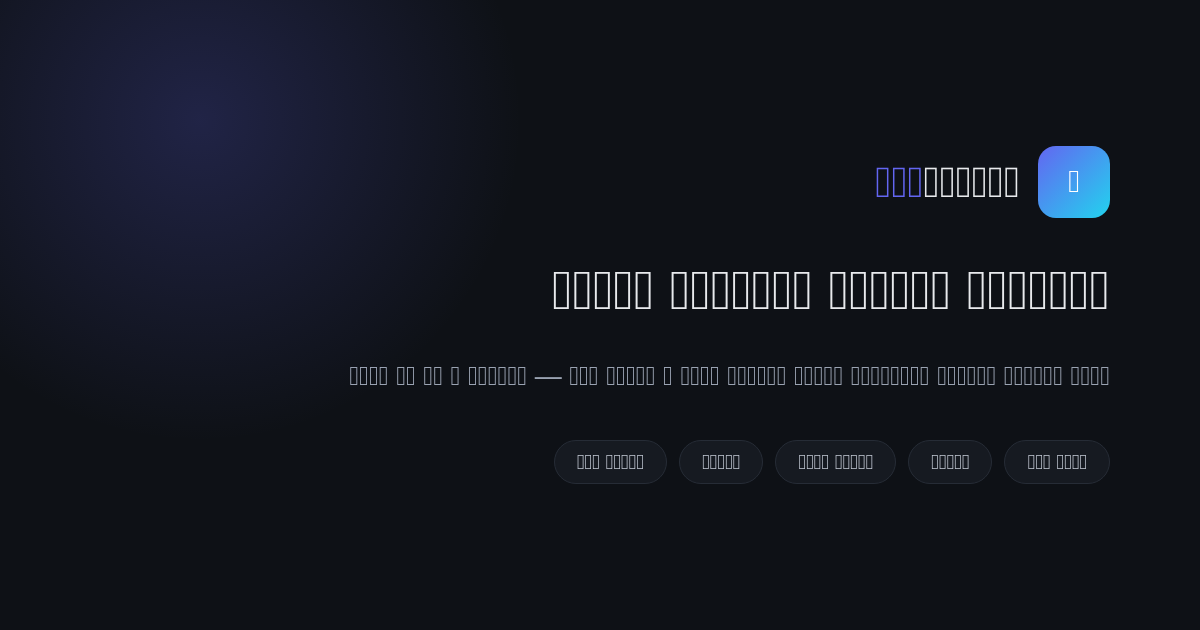
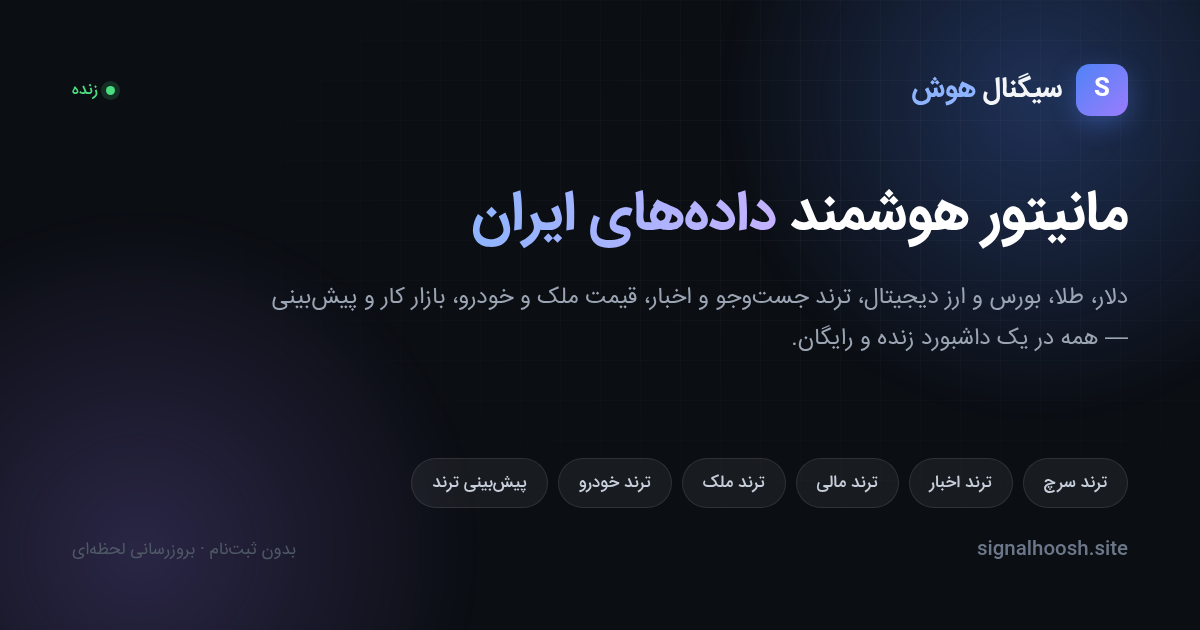
رفع تصویر پیشنمایش (OG Image) — حروف فارسی مربع خالی نشان میداد
علت واقعی: اسکریپت سازندهی قدیمی (که در ریپو نبود) قبل از بارگذاری
کامل فونت IRANSans عکس گرفته بود، پس هر حرف فارسی بهجای گلیف واقعی
یک □ خالی (tofu) نشان میداد — دقیقاً همان چیزی که در پیشنمایش تلگرام
و کارت گیتهاب دیده میشد.

gen-og.js (تازه، اینبار در ریپو نگه داشته میشود تا دوباره گم نشود)
- فونتهای IRANSans مستقیم بهصورت base64 داخل HTML جاسازی میشوند
  (بدون وابستگی به شبکه)
- صریحاً منتظر document.fonts.ready + دو requestAnimationFrame قبل از
  اسکرینشات میماند
- طراحی همراستا با دیزاین واقعی سایت: همان گرادیان لوگو، همان پالت
  رنگ تیره از tokens.css، تبهای واقعی بهعنوان pill

بعد از ساخت تصویر تازه، Cloudflare نسخهی خراب قبلی را با کش ۴ساعته
سرو میکرد (به پنل Cloudflare دسترسی ندارم که دستی پاک کنم). راهحل
دائمی: og:image حالا مثل CSS/JS سایت نسخهدار است (?v=<mtime فایل>)
— با هر بار عوضشدن تصویر، آدرس هم عوض میشود و کش قدیمی هرگز اصابت
نمیکند.

diff --git a/gen-og.js b/gen-og.js
@@ -1,0 +1,136 @@
+/**
+ * gen-og.js — ساخت تصویر پیشنمایش (OG Image) سایت
+ *
+ * تصویر قبلی همهی حروف فارسی را بهشکل مربع خالی (□) نشان میداد چون
+ * اسکریپت سازندهاش صفحه را قبل از بارگذاری کامل فونت IRANSans عکس
+ * گرفته بود. اینجا فونتها مستقیماً بهصورت base64 داخل HTML جاسازی
+ * میشوند (بدون وابستگی به شبکه) و صریحاً منتظر `document.fonts.ready`
+ * میمانیم قبل از اسکرینشات.
+ */
+const fs = require('fs');
+const path = require('path');
+const puppeteer = require('puppeteer');
+
+const FONT_DIR = path.join(__dirname, 'public', 'assets', 'fonts');
+const b64 = f => fs.readFileSync(path.join(FONT_DIR, f)).toString('base64');
+
+const FONTS = {
+  ultralight: b64('IRANSansWeb_UltraLight.woff2'),
+  light:      b64('IRANSansWeb_Light.woff2'),
+  regular:    b64('IRANSansWeb.woff2'),
+  medium:     b64('IRANSansWeb_Medium.woff2'),
+  bold:       b64('IRANSansWeb_Bold.woff2'),
+};
+
+const TABS = ['ترند سرچ', 'ترند اخبار', 'ترند مالی', 'ترند ملک', 'ترند خودرو', 'پیشبینی ترند'];
+
+const html = `<!DOCTYPE html>
+<html lang="fa" dir="rtl">
+<head>
+<meta charset="UTF-8">
+<style>
+@font-face { font-family:'IRANSans'; src:url(data:font/woff2;base64,${FONTS.regular}) format('woff2'); font-weight:400; }
+@font-face { font-family:'IRANSans'; src:url(data:font/woff2;base64,${FONTS.medium}) format('woff2'); font-weight:500; }
+@font-face { font-family:'IRANSans'; src:url(data:font/woff2;base64,${FONTS.bold}) format('woff2'); font-weight:700; }
+@font-face { font-family:'IRANSans'; src:url(data:font/woff2;base64,${FONTS.light}) format('woff2'); font-weight:300; }
+
+* { margin:0; padding:0; box-sizing:border-box; }
+html,body { width:1200px; height:630px; overflow:hidden; }
+body {
+  font-family:'IRANSans', sans-serif;
+  background: #0b0e13;
+  position: relative;
+  color: #e8ecf2;
+}
+.glow-1 { position:absolute; top:-220px; right:-160px; width:640px; height:640px; border-radius:50%;
+  background: radial-gradient(circle, rgba(79,131,247,0.30), transparent 70%); filter: blur(10px); }
+.glow-2 { position:absolute; bottom:-260px; left:-200px; width:680px; height:680px; border-radius:50%;
+  background: radial-gradient(circle, rgba(155,124,252,0.22), transparent 70%); filter: blur(10px); }
+.grid-fade {
+  position:absolute; inset:0;
+  background-image: linear-gradient(rgba(255,255,255,0.035) 1px, transparent 1px),
+                     linear-gradient(90deg, rgba(255,255,255,0.035) 1px, transparent 1px);
+  background-size: 40px 40px;
+  -webkit-mask-image: radial-gradient(ellipse at 70% 30%, black 0%, transparent 65%);
+          mask-image: radial-gradient(ellipse at 70% 30%, black 0%, transparent 65%);
+}
+
+.wrap { position:relative; z-index:2; width:100%; height:100%; padding: 64px 72px; display:flex; flex-direction:column; }
+
+.brand { display:flex; align-items:center; gap:14px; }
+.mark {
+  width:52px; height:52px; border-radius:14px; flex-shrink:0;
+  background: linear-gradient(135deg, #4f83f7, #9b7cfc);
+  display:flex; align-items:center; justify-content:center;
+  font-weight:700; font-size:24px; color:#fff;
+  box-shadow: 0 8px 24px rgba(79,131,247,0.35);
+}
+.brand-name { font-size:28px; font-weight:700; color:#f3f5f9; }
+.brand-name b { color:#8fb4ff; font-weight:700; }
+.live { margin-right:auto; display:flex; align-items:center; gap:8px; font-size:16px; color:#4ade80; font-weight:500; }
+.live i { width:9px; height:9px; border-radius:50%; background:#4ade80; box-shadow:0 0 0 5px rgba(74,222,128,0.16); }
+
+.title { margin-top:64px; font-size:56px; font-weight:700; line-height:1.35; color:#fff; max-width:1000px; }
+.title .hl { background: linear-gradient(90deg, #8fb4ff, #c3b2ff); -webkit-background-clip:text; background-clip:text; color:transparent; }
+
+.subtitle { margin-top:22px; font-size:23px; line-height:1.8; color:#9aa4b2; max-width:880px; font-weight:400; }
+
+.pills { margin-top:auto; display:flex; flex-wrap:wrap; gap:10px; }
+.pill {
+  padding: 10px 20px; border-radius:999px; font-size:17px; font-weight:500;
+  background: rgba(255,255,255,0.055); border:1px solid rgba(255,255,255,0.10); color:#c7cedb;
+}
+
+.footer { margin-top:26px; display:flex; align-items:center; justify-content:space-between; }
+.url { font-size:19px; color:#6c7889; font-weight:500; direction:ltr; }
+.tagline { font-size:17px; color:#4f5966; font-weight:400; }
+</style>
+</head>
+<body>
+  <div class="glow-1"></div>
+  <div class="glow-2"></div>
+  <div class="grid-fade"></div>
+  <div class="wrap">
+    <div class="brand">
+      <div class="mark">S</div>
+      <div class="brand-name">سیگنال<b> هوش</b></div>
+      <div class="live"><i></i>زنده</div>
+    </div>
+
+    <div class="title">مانیتور هوشمند <span class="hl">دادههای ایران</span></div>
+    <div class="subtitle">دلار، طلا، بورس و ارز دیجیتال، ترند جستوجو و اخبار، قیمت ملک و خودرو، بازار کار و پیشبینی — همه در یک داشبورد زنده و رایگان.</div>
+
+    <div class="pills">${TABS.map(t => `<span class="pill">${t}</span>`).join('')}</div>
+
+    <div class="footer">
+      <div class="url">signalhoosh.site</div>
+      <div class="tagline">بدون ثبتنام · بروزرسانی لحظهای</div>
+    </div>
+  </div>
+</body>
+</html>`;
+
+(async () => {
+  const browser = await puppeteer.launch({
+    headless: 'new',
+    args: ['--no-sandbox', '--disable-dev-shm-usage', '--disable-gpu', '--force-color-profile=srgb'],
+  });
+  try {
+    const page = await browser.newPage();
+    // deviceScaleFactor:1 عمداً — meta og:image:width/height سایت دقیقاً
+    // 1200×630 اعلام شده و باید با ابعاد واقعی فایل یکی باشد
+    await page.setViewport({ width: 1200, height: 630, deviceScaleFactor: 1 });
+    await page.setContent(html, { waitUntil: 'networkidle0' });
+    await page.waitForSelector('.title');
+    // نکتهی اصلی رفع باگ: صبر صریح تا فونت واقعاً بارگذاری و رندر شده باشد
+    await page.evaluate(() => document.fonts.ready);
+    // دو فریم انیمیشن یعنی حداقل یک ترسیم کامل قبل از عکس گرفتن انجام شده
+    await page.evaluate(() => new Promise(r => requestAnimationFrame(() => requestAnimationFrame(r))));
+    await new Promise(r => setTimeout(r, 400));
+    const out = process.argv[2] || path.join(__dirname, 'public', 'og-default.png');
+    await page.screenshot({ path: out });
+    console.log('✓ ساخته شد:', out, '—', fs.statSync(out).size, 'بایت');
+  } finally {
+    await browser.close();
+  }
+})().catch(e => { console.error('ERR', e.message); process.exit(1); });

diff --git a/web-test.js b/web-test.js
@@ -309,6 +309,7 @@ function assetVersion(rel) {
   } catch (e) { return String(Date.now()); }
 }
 const ASSETS = {
+  og_default: '/og-default.png?v=' + assetVersion('og-default.png'),
   tokens:     '/assets/css/tokens.css?v='     + assetVersion('assets/css/tokens.css'),
   base:       '/assets/css/base.css?v='       + assetVersion('assets/css/base.css'),
   components: '/assets/css/components.css?v=' + assetVersion('assets/css/components.css'),
